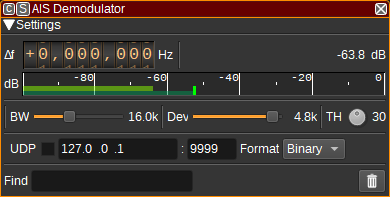
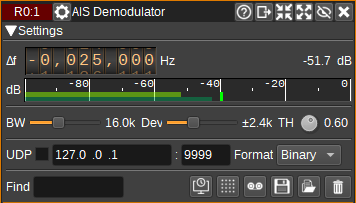
Update AIS docs to match latest UI.

diff --git a/plugins/channelrx/demodais/readme.md b/plugins/channelrx/demodais/readme.md
@@ -48,34 +48,34 @@ This setting scales the output of the FM discriminator, which is used to detect 
 
 The threshold for the normalised correlation between the received signal and the preamble (training sequence), from 0 to 1. Being normalised, it does not depend on signal level, so the same setting works for strong and weak signals. Real preambles correlate above 0.9 and the default of 0.6 sits well clear of the noise floor. A lower value may demodulate slightly weaker signals, but increases processor usage sharply, because every threshold crossing starts a sequence detection.
 
-<h3>7: Find</h3>
+<h3>7: UDP</h3>
 
-Entering a regular expression in the Find field displays only messages where the source MMSI matches the given regular expression.
+When checked, received messages are forwarded to the specified UDP address (8) and port (9).
 
-<h3>8: Clear Messages from table</h3>
-
-Pressing this button clears all messages from the table.
-
-<h3>9: UDP</h3>
-
-When checked, received messages are forwarded to the specified UDP address (10) and port (11).
-
-<h3>10: UDP address</h3>
+<h3>8: UDP address</h3>
 
 IP address of the host to forward received messages to via UDP.
 
-<h3>11: UDP port</h3>
+<h3>9: UDP port</h3>
 
 UDP port number to forward received messages to.
 
-<h3>12: UDP format</h3>
+<h3>10 UDP format</h3>
 
 The format the messages are forwarded via UDP in. This can be either binary (which is useful for SDRangel's PERTester feature) or NMEA (which is useful for 3rd party applications such as OpenCPN).
 
-<h3>13: Use Date and Time from File</h3>
+<h3>11: Find</h3>
+
+Entering a regular expression in the Find field displays only messages where the source MMSI matches the given regular expression.
+
+<h3>12: Use Date and Time from File</h3>
 
 When checked, if the source device is a File Input device, the date and time used for
 packet reception time is taken from the file playback time. Otherwise, the current system clock time is used.
+
+<h3>13: Show / hide Slot Map</h3>
+
+When checked shows the slot map (See below).
 
 <h3>14: Start/stop Logging Messages to .csv File</h3>
 
@@ -88,6 +88,10 @@ Click to specify the name of the .csv file which received AIS messages are logge
 <h3>16: Read Data from .csv File</h3>
 
 Click to specify a previously written .csv log file, which is read and used to update the table.
+
+<h3>17: Clear Messages from table</h3>
+
+Pressing this button clears all messages from the table.
 
 <h3>Slot Map</h3>
 
